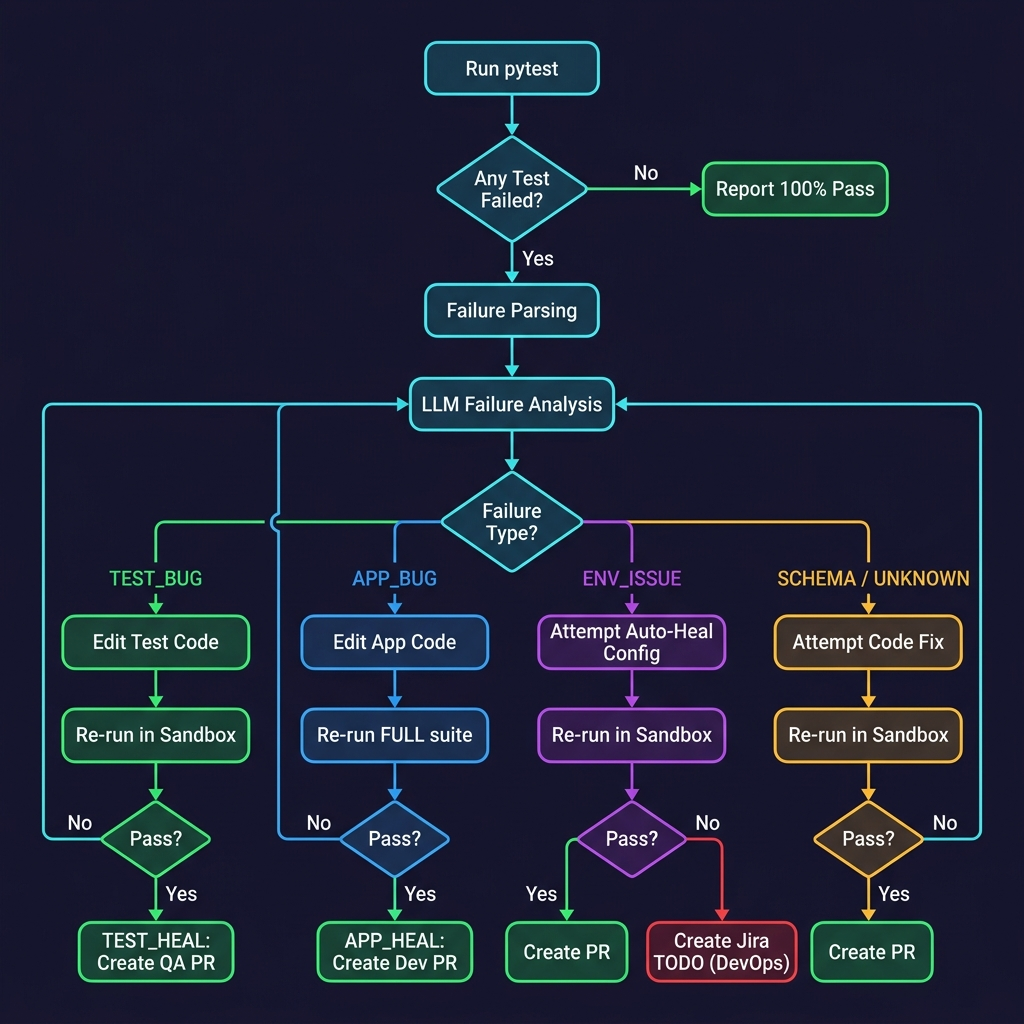
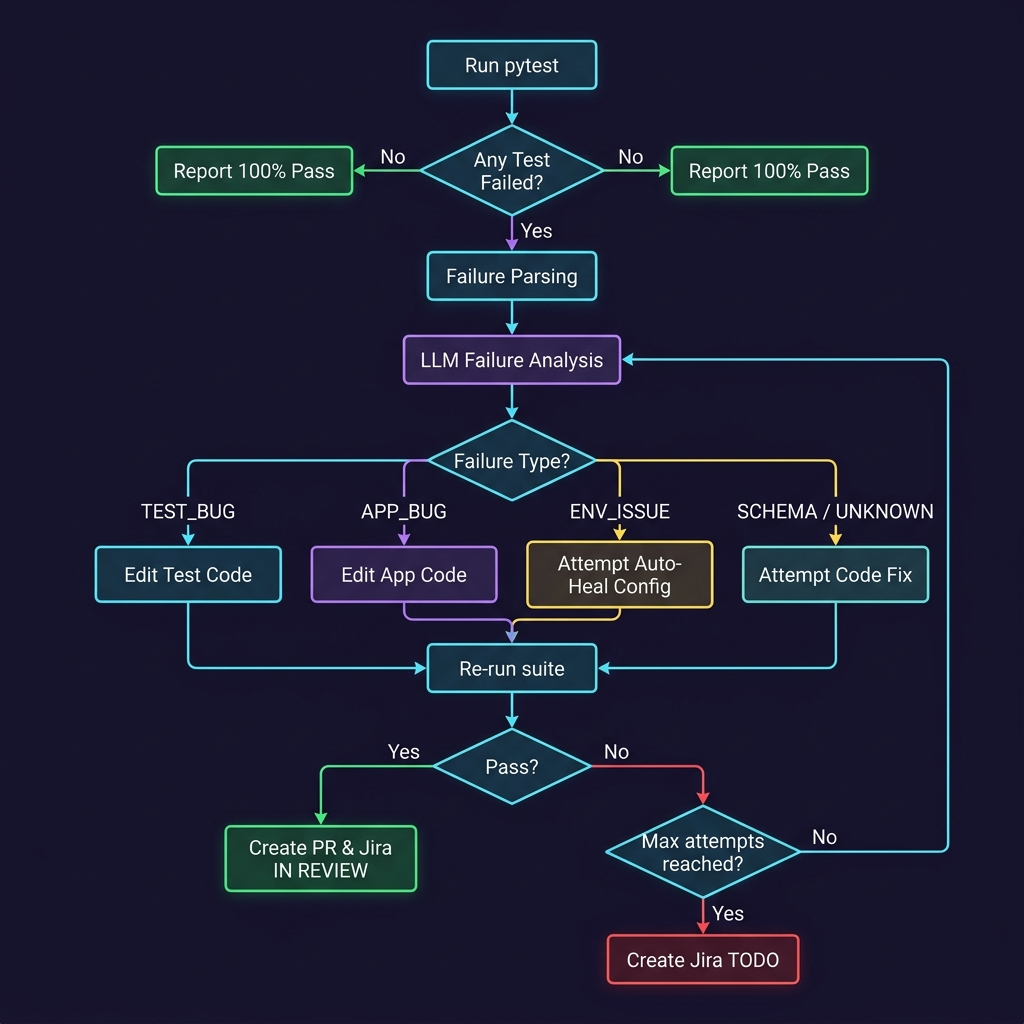
docs: unify self-healing decision matrix flowchart with a single verification loop

diff --git a/demo_presentation_guide.md b/demo_presentation_guide.md
@@ -115,26 +115,18 @@ graph TD
     E --> F{Failure Type?}
     
     F -- TEST_BUG --> G[Edit Test Code]
-    G --> H[Re-run tests in Sandbox]
-    H --> I{Pass?}
-    I -- Yes --> J[TEST_HEAL: Create QA PR & Jira IN REVIEW]
-    I -- No --> E
+    F -- APP_BUG --> H[Edit App Code]
+    F -- ENV_ISSUE --> I[Attempt Auto-Heal Config]
+    F -- SCHEMA / UNKNOWN --> J[Attempt Code Fix]
     
-    F -- APP_BUG --> K[Edit App Code]
-    K --> L[Re-run FULL suite]
-    L --> M{Pass?}
-    M -- Yes --> N[APP_HEAL: Create Dev PR & Jira IN REVIEW]
-    M -- No --> E
+    G --> K[Re-run suite]
+    H --> K
+    I --> K
+    J --> K
     
-    F -- ENV_ISSUE --> O[Attempt Auto-Heal Code Config/URL]
-    O --> P[Re-run tests in Sandbox]
-    P --> Q{Pass?}
-    Q -- Yes --> R[Create PR & Jira IN REVIEW]
-    Q -- No --> S[Create Jira TODO - Assign to DevOps/Infra]
-    
-    F -- SCHEMA / UNKNOWN --> T[Attempt Code Fix]
-    T --> U[Re-run tests in Sandbox]
-    U --> V{Pass?}
-    V -- Yes --> W[Create PR & Jira IN REVIEW]
-    V -- No --> E
+    K --> L{Pass?}
+    L -- Yes --> M[Create PR & Jira IN REVIEW]
+    L -- No --> N{Max attempts reached?}
+    N -- No --> E
+    N -- Yes --> O[Create Jira TODO]
 ```
